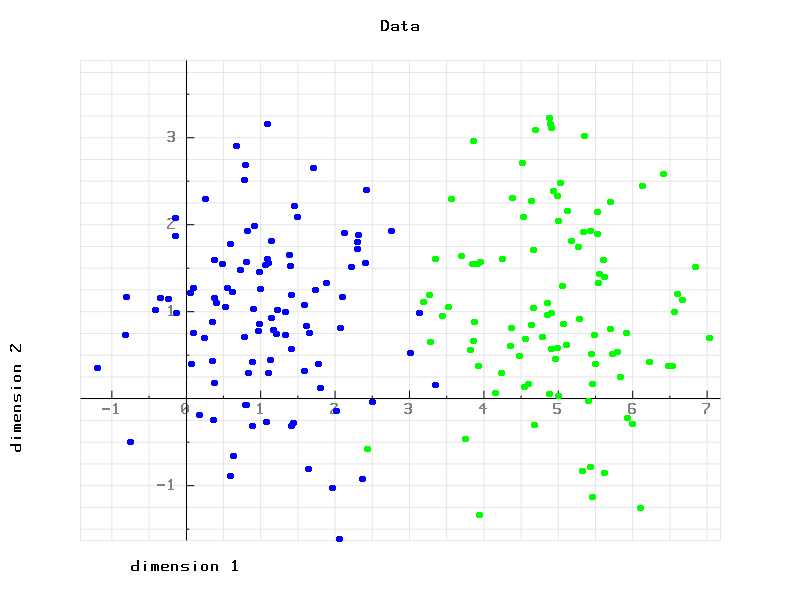
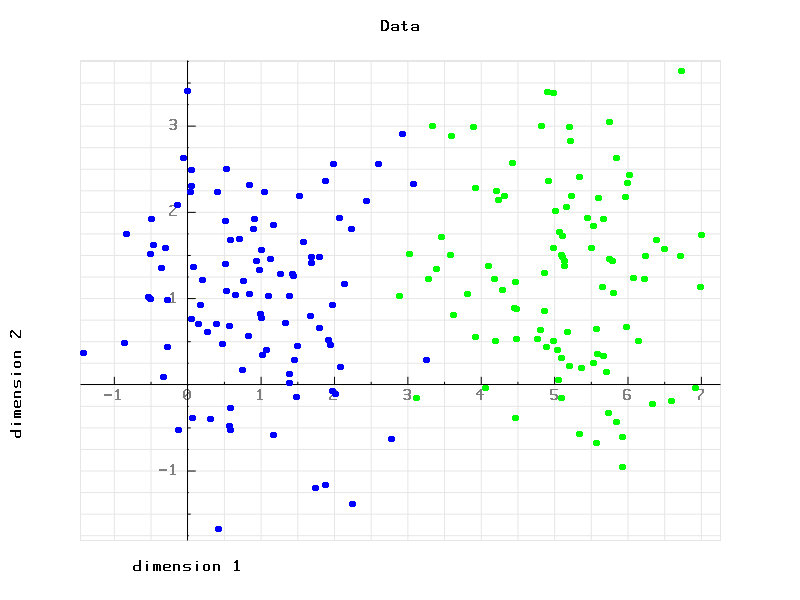
ANN_class_classification

diff --git a/A_deep_understanding_of_deep_learning_PyTorch_Cpp/Application.cpp b/A_deep_understanding_of_deep_learning_PyTorch_Cpp/Application.cpp
@@ -25,7 +25,11 @@ namespace ANNs {
 
 	std::vector<std::string> split(const std::string& s, char delimiter);
 
-	void read_csv(std::string path, std::vector<std::vector<std::string>>& data, std::vector<std::string>& colNames);
+	void read_csv(
+		std::string path, 
+		std::vector<std::vector<std::string>>& data, 
+		std::vector<std::string>& colNames
+	);
 
 	void ANN_regression();
 
@@ -35,31 +39,22 @@ namespace ANNs {
 
 	void ANN_iris_dataset();
 
+	class ANNclassifyClass :public torch::nn::Module {
+
+	private:
+		torch::nn::Linear input{ nullptr }, output{ nullptr };
+
+	public:
+		ANNclassifyClass();
+		torch::Tensor forward(torch::Tensor x);
+	};
+
+	void ANN_class_classification();
+
 	void AllCalls();
 }
 
-class ANNclassifyClass :public torch::nn::Module {
 
-private:
-	torch::nn::Linear input{ nullptr }, output{ nullptr };
-
-public:
-	ANNclassifyClass() {
-
-		input = register_module("input", torch::nn::Linear(2, 1));
-		output = register_module("output", torch::nn::Linear(1, 1));
-	}
-
-	torch::Tensor forward(torch::Tensor x) {
-
-		x = input->forward(x);
-		x = torch::relu(x);
-		x = output->forward(x);
-		x = torch::sigmoid(x);
-
-		return x;
-	}
-};
 
 
 int main(int argc, char** args) {
@@ -70,122 +65,6 @@ int main(int argc, char** args) {
 	ANNs::AllCalls();
 	*/
 
-#pragma region Create data
-
-	int nPerClust = 100;
-	int blur = 1;
-
-	int A[] = { 1, 1 }; // centroid category 1
-	int	B[] = { 5, 1 }; // centroid category 2
-
-
-	torch::Tensor ax_t = A[0] + torch::randn({ nPerClust }, torch::TensorOptions(torch::kCPU).dtype(at::kFloat)) * blur;
-	torch::Tensor ay_t = A[1] + torch::randn({ nPerClust }, torch::TensorOptions(torch::kCPU).dtype(at::kFloat)) * blur;
-	torch::Tensor bx_t = B[0] + torch::randn({ nPerClust }, torch::TensorOptions(torch::kCPU).dtype(at::kFloat)) * blur;
-	torch::Tensor by_t = B[1] + torch::randn({ nPerClust }, torch::TensorOptions(torch::kCPU).dtype(at::kFloat)) * blur;
-
-	std::vector<double> ax(ax_t.data_ptr<float>(), ax_t.data_ptr<float>() + ax_t.numel());
-	std::vector<double> ay(ay_t.data_ptr<float>(), ay_t.data_ptr<float>() + ay_t.numel());
-	std::vector<double> bx(bx_t.data_ptr<float>(), bx_t.data_ptr<float>() + bx_t.numel());
-	std::vector<double> by(by_t.data_ptr<float>(), by_t.data_ptr<float>() + by_t.numel());
-
-	// ANNs namespace
-	ANNs::plot_data(ax, ay, bx, by, "plots/ANN_classifier_1.png");
-
-	torch::Tensor labels = torch::vstack({ torch::zeros({nPerClust, 1}), torch::ones({nPerClust, 1}) });
-
-	torch::Tensor dataA = torch::transpose(torch::stack({ ax_t, ay_t }), 1, 0);
-	torch::Tensor dataB = torch::transpose(torch::stack({ bx_t, by_t }), 1, 0);
-
-	torch::Tensor data = torch::vstack({ dataA, dataB });
-
-#pragma endregion
-
-#pragma region creating and train the model
-
-	/*torch::nn::Sequential ANNclassify(
-		torch::nn::Linear(2, 1),
-		torch::nn::ReLU(),
-		torch::nn::Linear(1, 1),
-		torch::nn::Sigmoid()
-	);*/
-
-	ANNclassifyClass ANNclassify;
-
-	float learningRate = 0.01;
-	torch::optim::SGD optimizer(ANNclassify.parameters(), learningRate);
-
-	int numepochs = 1000;
-	torch::Tensor losses = torch::zeros(numepochs, torch::kFloat32);
-
-	for (int i = 0; i < numepochs; i++) {
-		torch::Tensor yhat = ANNclassify.forward(data);
-
-		torch::Tensor loss = torch::binary_cross_entropy(yhat, labels);
-		losses[i] = loss;
-
-		optimizer.zero_grad();
-		loss.backward();
-		optimizer.step();
-	}
-#pragma endregion
-
-#pragma region make predictions
-
-	torch::Tensor predictions = ANNclassify.forward(data);
-
-	// ANNs namespace
-	ANNs::plot_losses(losses, numepochs, "plots/ANN_classifier_3_losses.png");
-
-	int errors = 0;
-	bool y = false;
-	bool yHat = false;
-
-	vector<double> errx;
-	vector<double> erry;
-
-	float threshold = 0.5;
-
-	for (int i = 0; i < nPerClust * 2; i++) {
-
-		y = false;
-		yHat = false;
-
-		if (labels[i].item<int>() == 1)
-			y = true;
-		if (predictions[i].item<float>() > threshold)
-			yHat = true;
-
-		if (y != yHat) {
-
-			errx.push_back(data[i][0].item<double>());
-			erry.push_back(data[i][1].item<double>());
-			errors++;
-		}
-	}
-	std::cout << "Accuracy : " << 100 * (((nPerClust * 2) - errors) / float(nPerClust * 2)) << "%" << std::endl;
-
-	vector<double> catAx;
-	vector<double> catAy;
-	vector<double> catBx;
-	vector<double> catBy;
-
-	for (int i = 0; i < nPerClust * 2; i++) {
-
-		if (predictions[i].item<float>() <= threshold) {
-			catAx.push_back(data[i][0].item<double>());
-			catAy.push_back(data[i][1].item<double>());
-		}
-		else {
-			catBx.push_back(data[i][0].item<double>());
-			catBy.push_back(data[i][1].item<double>());
-		}
-	}
-
-	// ANNs namespace
-	ANNs::plot_data_err(catAx, catAy, catBx, catBy, errx, erry, "plots/ANN_classifier_2_pred.png");
-
-#pragma endregion
 
 	return 0;
 }
@@ -353,7 +232,11 @@ std::vector<std::string> ANNs::split(const std::string& s, char delimiter) {
 	return tokens;
 }
 
-void ANNs::read_csv(std::string path, std::vector<std::vector<std::string>>& data, std::vector<std::string>& colNames)
+void ANNs::read_csv(
+	std::string path, 
+	std::vector<std::vector<std::string>>& data,
+	std::vector<std::string>& colNames
+)
 {
 
 	std::string text;
@@ -850,10 +733,144 @@ void ANNs::ANN_iris_dataset() {
 
 }
 
+ANNs::ANNclassifyClass::ANNclassifyClass() {
+
+	input = register_module("input", torch::nn::Linear(2, 1));
+	output = register_module("output", torch::nn::Linear(1, 1));
+}
+
+torch::Tensor ANNs::ANNclassifyClass::forward(torch::Tensor x) {
+
+	x = input->forward(x);
+	x = torch::relu(x);
+	x = output->forward(x);
+	x = torch::sigmoid(x);
+
+	return x;
+}
+
+void ANNs::ANN_class_classification() {
+
+#pragma region Create data
+
+	int nPerClust = 100;
+	int blur = 1;
+
+	int A[] = { 1, 1 }; // centroid category 1
+	int	B[] = { 5, 1 }; // centroid category 2
+
+
+	torch::Tensor ax_t = A[0] + torch::randn({ nPerClust }, torch::TensorOptions(torch::kCPU).dtype(at::kFloat)) * blur;
+	torch::Tensor ay_t = A[1] + torch::randn({ nPerClust }, torch::TensorOptions(torch::kCPU).dtype(at::kFloat)) * blur;
+	torch::Tensor bx_t = B[0] + torch::randn({ nPerClust }, torch::TensorOptions(torch::kCPU).dtype(at::kFloat)) * blur;
+	torch::Tensor by_t = B[1] + torch::randn({ nPerClust }, torch::TensorOptions(torch::kCPU).dtype(at::kFloat)) * blur;
+
+	std::vector<double> ax(ax_t.data_ptr<float>(), ax_t.data_ptr<float>() + ax_t.numel());
+	std::vector<double> ay(ay_t.data_ptr<float>(), ay_t.data_ptr<float>() + ay_t.numel());
+	std::vector<double> bx(bx_t.data_ptr<float>(), bx_t.data_ptr<float>() + bx_t.numel());
+	std::vector<double> by(by_t.data_ptr<float>(), by_t.data_ptr<float>() + by_t.numel());
+
+	plot_data(ax, ay, bx, by, "plots/ANN_classifier_1.png");
+
+	torch::Tensor labels = torch::vstack({ torch::zeros({nPerClust, 1}), torch::ones({nPerClust, 1}) });
+
+	torch::Tensor dataA = torch::transpose(torch::stack({ ax_t, ay_t }), 1, 0);
+	torch::Tensor dataB = torch::transpose(torch::stack({ bx_t, by_t }), 1, 0);
+
+	torch::Tensor data = torch::vstack({ dataA, dataB });
+
+#pragma endregion
+
+#pragma region creating and train the model
+
+	/*torch::nn::Sequential ANNclassify(
+		torch::nn::Linear(2, 1),
+		torch::nn::ReLU(),
+		torch::nn::Linear(1, 1),
+		torch::nn::Sigmoid()
+	);*/
+
+	ANNs::ANNclassifyClass ANNclassify;
+
+	float learningRate = 0.01;
+	torch::optim::SGD optimizer(ANNclassify.parameters(), learningRate);
+
+	int numepochs = 1000;
+	torch::Tensor losses = torch::zeros(numepochs, torch::kFloat32);
+
+	for (int i = 0; i < numepochs; i++) {
+		torch::Tensor yhat = ANNclassify.forward(data);
+
+		torch::Tensor loss = torch::binary_cross_entropy(yhat, labels);
+		losses[i] = loss;
+
+		optimizer.zero_grad();
+		loss.backward();
+		optimizer.step();
+	}
+#pragma endregion
+
+#pragma region make predictions
+
+	torch::Tensor predictions = ANNclassify.forward(data);
+
+	plot_losses(losses, numepochs, "plots/ANN_classifier_3_losses.png");
+
+	int errors = 0;
+	bool y = false;
+	bool yHat = false;
+
+	vector<double> errx;
+	vector<double> erry;
+
+	float threshold = 0.5;
+
+	for (int i = 0; i < nPerClust * 2; i++) {
+
+		y = false;
+		yHat = false;
+
+		if (labels[i].item<int>() == 1)
+			y = true;
+		if (predictions[i].item<float>() > threshold)
+			yHat = true;
+
+		if (y != yHat) {
+
+			errx.push_back(data[i][0].item<double>());
+			erry.push_back(data[i][1].item<double>());
+			errors++;
+		}
+	}
+	std::cout << "Accuracy : " << 100 * (((nPerClust * 2) - errors) / float(nPerClust * 2)) << "%" << std::endl;
+
+	vector<double> catAx;
+	vector<double> catAy;
+	vector<double> catBx;
+	vector<double> catBy;
+
+	for (int i = 0; i < nPerClust * 2; i++) {
+
+		if (predictions[i].item<float>() <= threshold) {
+			catAx.push_back(data[i][0].item<double>());
+			catAy.push_back(data[i][1].item<double>());
+		}
+		else {
+			catBx.push_back(data[i][0].item<double>());
+			catBy.push_back(data[i][1].item<double>());
+		}
+	}
+
+	plot_data_err(catAx, catAy, catBx, catBy, errx, erry, "plots/ANN_classifier_2_pred.png");
+
+#pragma endregion
+}
+
 void ANNs::AllCalls() {
 
 	ANN_regression();
 	ANN_classification();
 	Multilayer_ANN_classification();
 	ANN_iris_dataset();
+	ANN_class_classification();
 }
